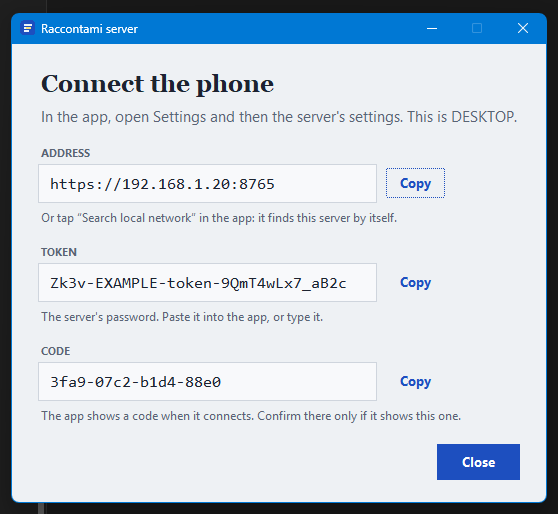
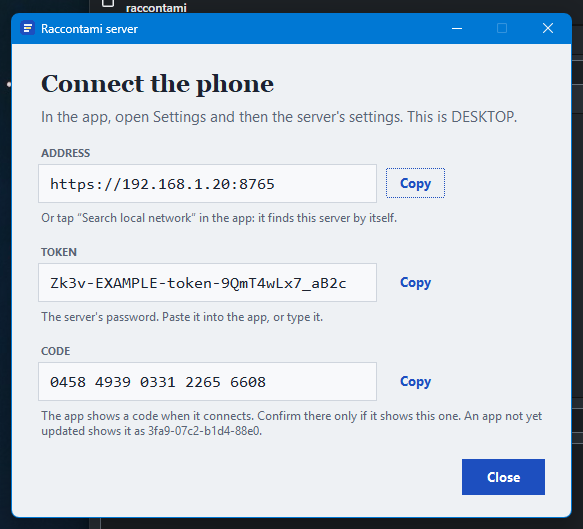
The setup checks the graphics card and the space before it downloads; the Connect picture with a code in digits

diff --git a/README.md b/README.md
@@ -28,7 +28,7 @@ same steps but have not been run on real hardware yet; reports welcome.
 | Disk | 35 GB | 50 GB on a fast drive, plus room for finished work (see [Disk space](#disk-space)) |
 | Software | Windows: nothing, the setup brings its own. Linux: Python 3.12, ffmpeg, git | |
 
-The setup checks the driver and the free space before it downloads anything.
+The Windows setup checks the graphics card, its driver and the free space before it downloads anything.
 
 ## Install
 
@@ -42,9 +42,10 @@ installers download about 35 GB and are safe to stop and run again: they only ad
      ```powershell
      irm https://raw.githubusercontent.com/alessandrobelli/raccontami-server/main/install/setup.ps1 | iex
      ```
-   - Or download [Install Raccontami server.cmd](https://github.com/alessandrobelli/raccontami-server/raw/main/Install%20Raccontami%20server.cmd)
-     and double-click it. Windows warns about a file from the internet that it does not know:
-     choose **More info**, then **Run anyway**. The first way has no such warning.
+   - Or save the file [Install Raccontami server.cmd](https://github.com/alessandrobelli/raccontami-server/raw/main/Install%20Raccontami%20server.cmd)
+     (right-click the link, **Save link as…**; a plain click only shows its text) and double-click
+     it. Windows may warn about a file from the internet that it does not know. The first way has
+     no such warning.
 
    The setup asks where to put everything, then brings what the computer does not have: the
    server's code, a Python of its own and ffmpeg. All of it goes into that one folder, nothing is
